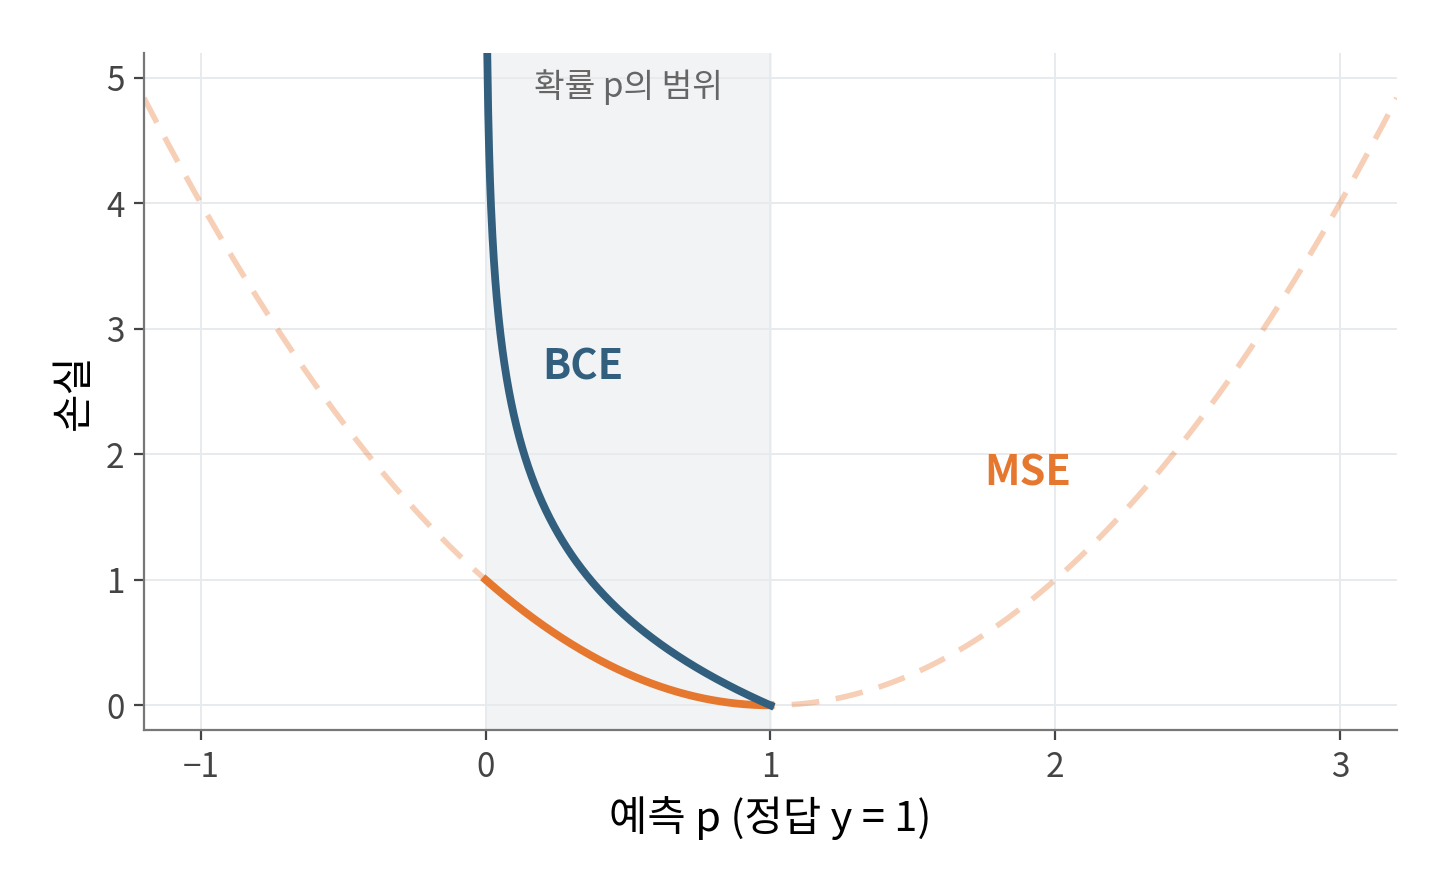
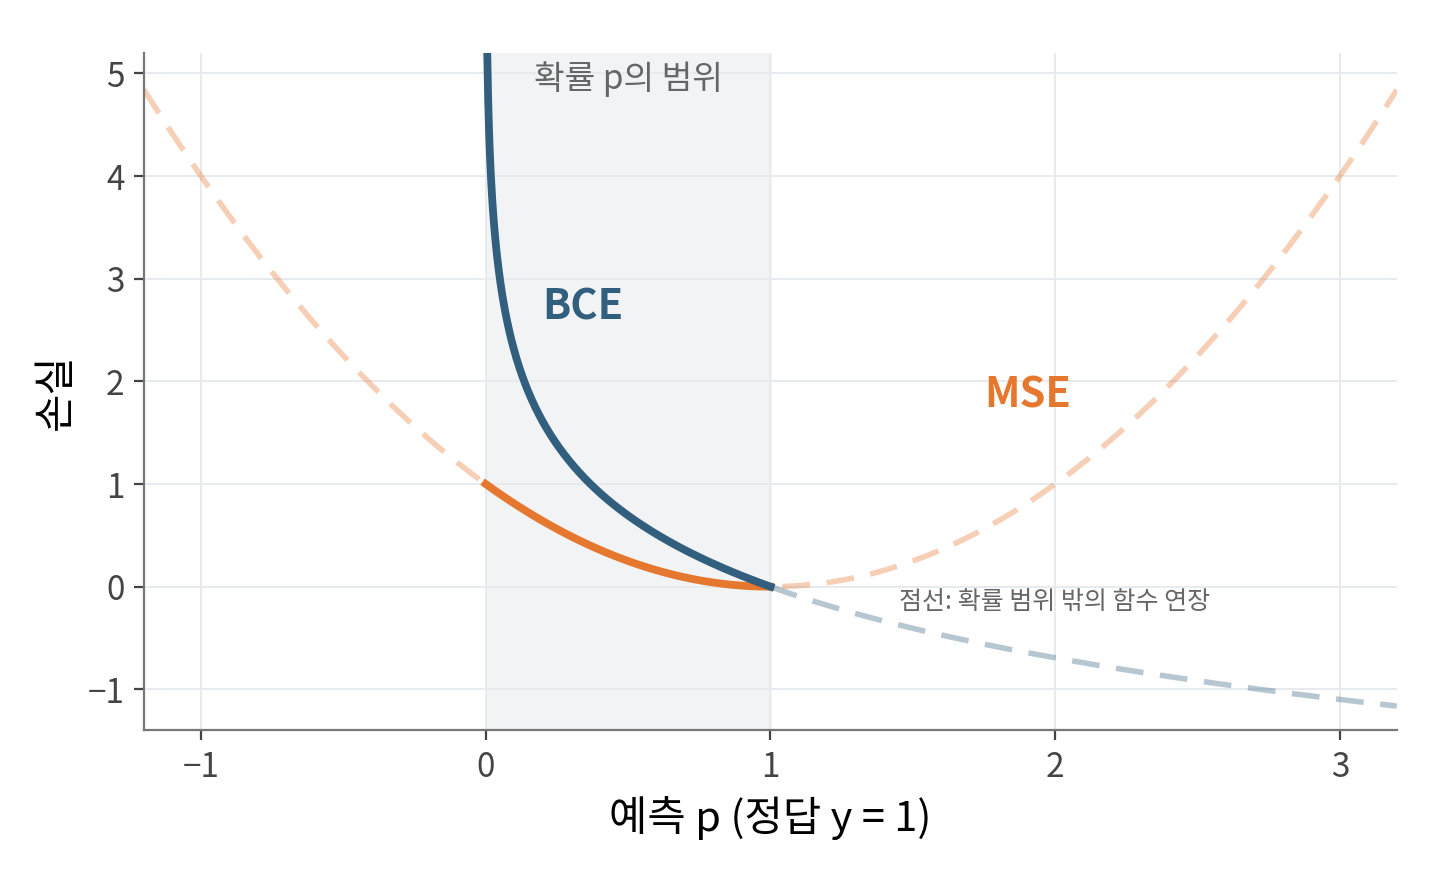
Show dashed BCE function extension beyond probability range

diff --git a/scripts/figures/ch05_mse_bce_parabola.py b/scripts/figures/ch05_mse_bce_parabola.py
@@ -24,7 +24,7 @@ def render():
     fig, ax = plt.subplots(figsize=(7.2, 4.4), dpi=200, facecolor="white")
     fig.subplots_adjust(left=0.1, right=0.97, bottom=0.17, top=0.94)
 
-    # 확률 p가 있을 수 있는 0~1 구간만 진하게, 바깥은 포물선 모양을 보여 주려고 흐리게 그린다.
+    # 확률 범위는 실선, 범위 밖의 수학적 연장은 흐린 점선으로 그린다.
     ax.axvspan(0, 1, color="#f1f3f5", zorder=0)
     ax.text(0.5, 4.85, "확률 p의 범위", ha="center", fontsize=12, color="#666666")
     outside = np.linspace(-1.2, 3.2, 600)
@@ -33,12 +33,16 @@ def render():
     ax.plot(p, (p - 1) ** 2, color=MSE_COLOR, linewidth=2.8)
     p = np.linspace(np.exp(-5.2), 1, 600)
     ax.plot(p, -np.log(p), color=BCE_COLOR, linewidth=2.8)
+    p_extended = np.linspace(1, 3.2, 300)
+    ax.plot(p_extended, -np.log(p_extended), color=BCE_COLOR,
+            alpha=0.35, linewidth=2, linestyle=DASH)
+    ax.text(1.45, -0.22, "점선: 확률 범위 밖의 함수 연장", fontsize=9, color="#666666")
 
     ax.text(1.75, 1.75, "MSE", fontsize=15, color=MSE_COLOR, fontweight="bold")
     ax.text(0.2, 2.6, "BCE", fontsize=15, color=BCE_COLOR, fontweight="bold")
 
-    ax.set(xlim=(-1.2, 3.2), ylim=(-0.2, 5.2),
-           xticks=[-1, 0, 1, 2, 3], yticks=[0, 1, 2, 3, 4, 5],
+    ax.set(xlim=(-1.2, 3.2), ylim=(-1.4, 5.2),
+           xticks=[-1, 0, 1, 2, 3], yticks=[-1, 0, 1, 2, 3, 4, 5],
            xlabel="예측 p (정답 y = 1)", ylabel="손실")
     ax.spines[["top", "right"]].set_visible(False)
     ax.spines[["left", "bottom"]].set_color("#777777")
